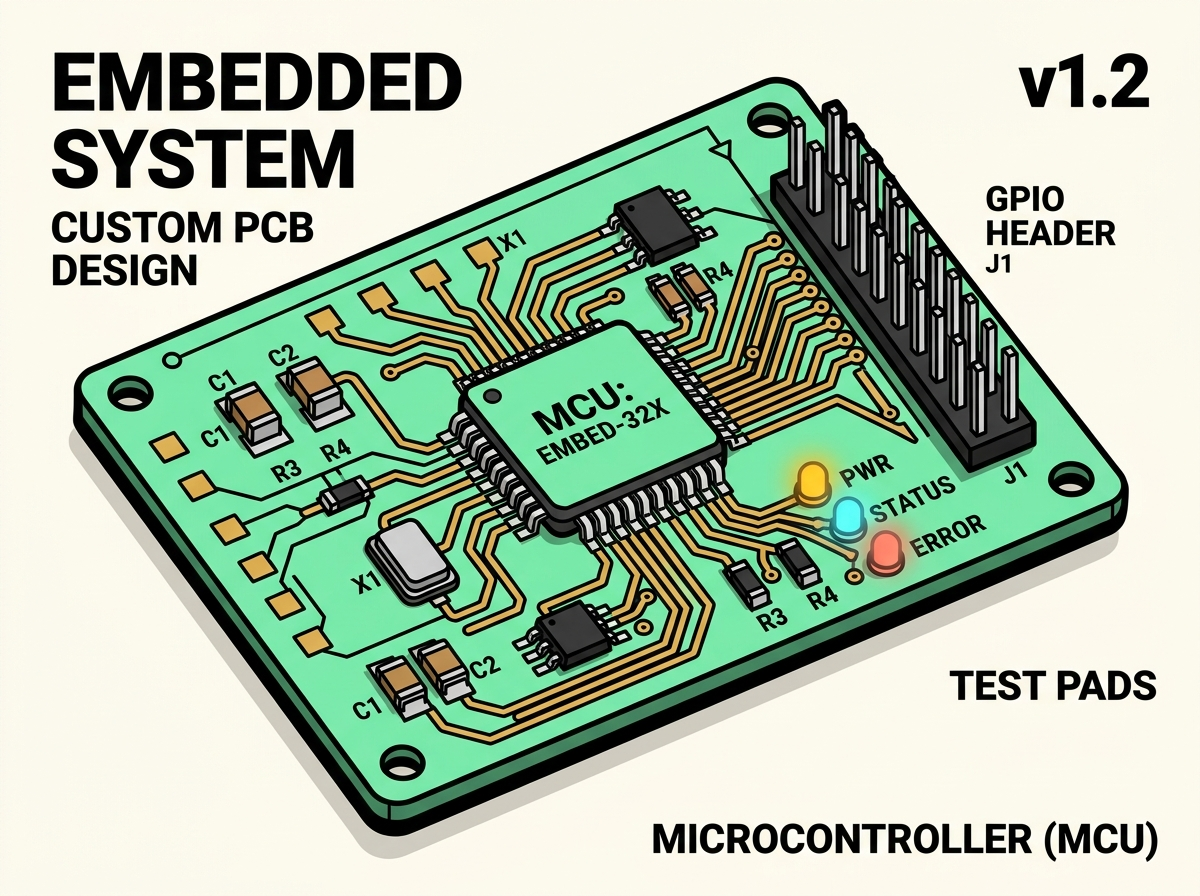
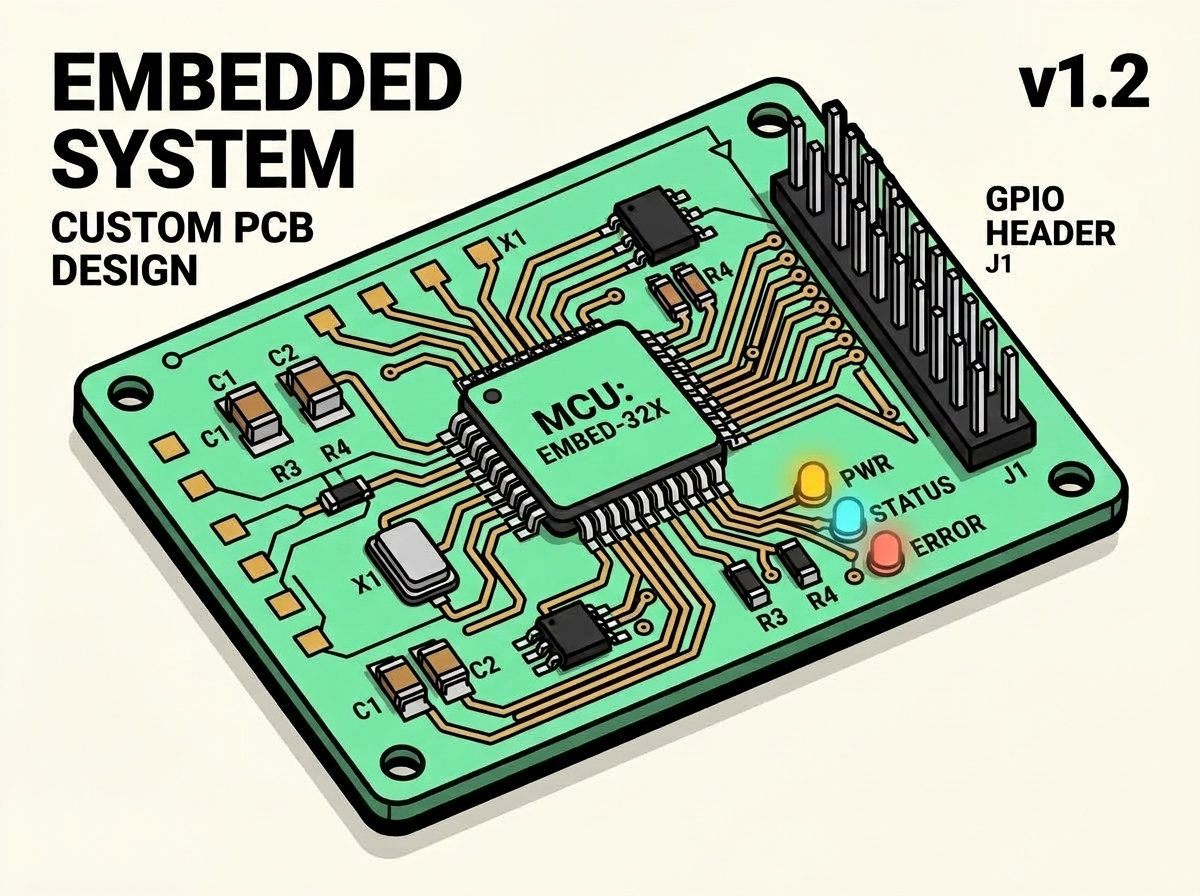
fix(edu): update copy to general embedded systems (hardware & software) and remove text labels from image

diff --git a/index.html b/index.html
@@ -525,7 +525,7 @@
     <!-- ====================================================================
          EDUCATION & CREDENTIALS
          ==================================================================== -->
-    <section class="neo-card education-card" aria-label="Education and Hardware Foundation">
+    <section class="neo-card education-card" aria-label="Education and Embedded Systems Foundation">
       <div class="edu-header-row">
         <div class="edu-info">
           <span class="mono-tag">ACADEMIC BACKGROUND</span>
@@ -539,13 +539,14 @@
       <div class="edu-content-grid">
         <div class="edu-details">
           <p class="edu-narrative">
-            During my university years, I dedicated extensive hands-on laboratory time to <strong>hardware engineering</strong>—designing
-            custom printed circuit boards (PCBs), etching prototypes, and writing low-level firmware for embedded systems and microcontrollers.
+            During my university years, I dedicated extensive hands-on laboratory time to <strong>embedded systems</strong>—spanning
+            both hardware and software: designing custom printed circuit boards (PCBs), etching physical prototypes, and writing
+            low-level firmware for microcontrollers.
           </p>
           <div class="edu-highlights">
             <div class="edu-highlight-item">
               <span class="edu-highlight-icon">⚡</span>
-              <div><strong>Custom PCB & Circuit Design:</strong> Schematics capture, track routing, physical board etching, and precision soldering for prototype boards.</div>
+              <div><strong>Custom PCB & Circuit Design:</strong> Schematics capture, track routing, physical board etching, and precision soldering for prototype circuit boards.</div>
             </div>
             <div class="edu-highlight-item">
               <span class="edu-highlight-icon">📟</span>
@@ -557,14 +558,14 @@
             </div>
           </div>
           <p class="edu-narrative" style="color: var(--text-muted); font-size: 0.88rem;">
-            <em>This physical, bottom-up foundation in hardware architecture, memory constraints, and signal propagation directly informs how I build high-throughput, low-latency distributed systems today.</em>
+            <em>This end-to-end foundation across both embedded hardware and low-level software directly informs how I build high-throughput, low-latency distributed systems today.</em>
           </p>
           <div class="tech-stack-pills">
             <span class="mini-tech-tag">Embedded Systems</span>
             <span class="mini-tech-tag">Circuit Board (PCB)</span>
             <span class="mini-tech-tag">Microcontrollers (MCU)</span>
             <span class="mini-tech-tag">C / C++</span>
-            <span class="mini-tech-tag">Hardware Debugging</span>
+            <span class="mini-tech-tag">Firmware & Drivers</span>
             <span class="mini-tech-tag">Signal Analysis</span>
           </div>
         </div>
@@ -572,10 +573,9 @@
         <div class="edu-illustration-wrapper">
           <div class="edu-circuit-img-box">
             <img src="embedded-circuit-board.jpg" alt="Embedded System & Custom PCB Circuit Board Design Illustration" class="edu-circuit-img" loading="lazy">
-            <div class="edu-img-badge">⚡ Hardware Roots</div>
           </div>
           <div class="edu-illustration-caption">
-            <span>Custom PCB & Microcontroller</span>
+            <span>Custom PCB & Embedded System</span>
             <span>Dept. of Electronics Physics</span>
           </div>
         </div>

diff --git a/app.js b/app.js
@@ -450,10 +450,10 @@ function initTerminal() {
 
       case 'education':
       case 'academic':
-        appendLine('Academic Background & Hardware Roots (2011 – 2016):', 'warning');
+        appendLine('Academic Background & Embedded Systems (2011 – 2016):', 'warning');
         appendLine('• B.S. in Physics and Engineering — University of Science, HCMC', 'success');
         appendLine('• Dept. of Electronics Physics Technology and Informatics', 'info');
-        appendLine('• Hands-on focus: Custom PCB design, embedded systems, microcontrollers (MCU), and low-level C/C++ firmware.', 'info');
+        appendLine('• Hands-on focus: End-to-end embedded systems across both hardware (custom PCB design) and software (low-level C/C++ firmware).', 'info');
         break;
 
       case 'summary':
